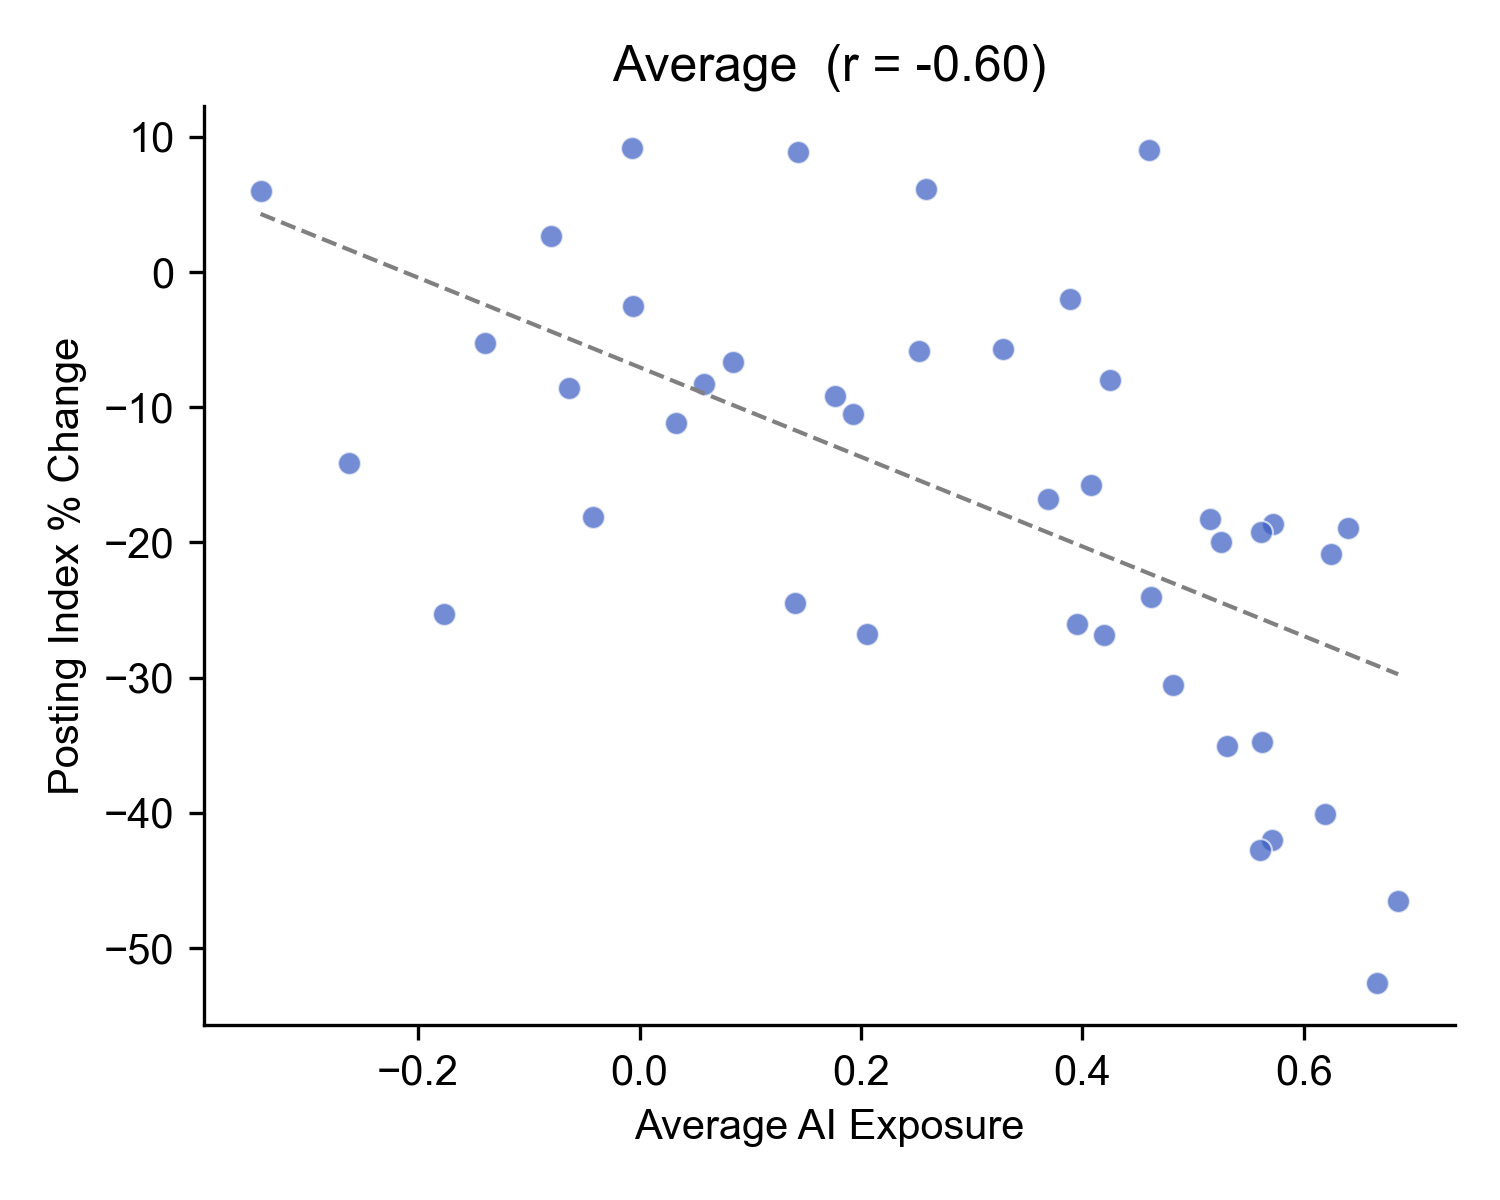
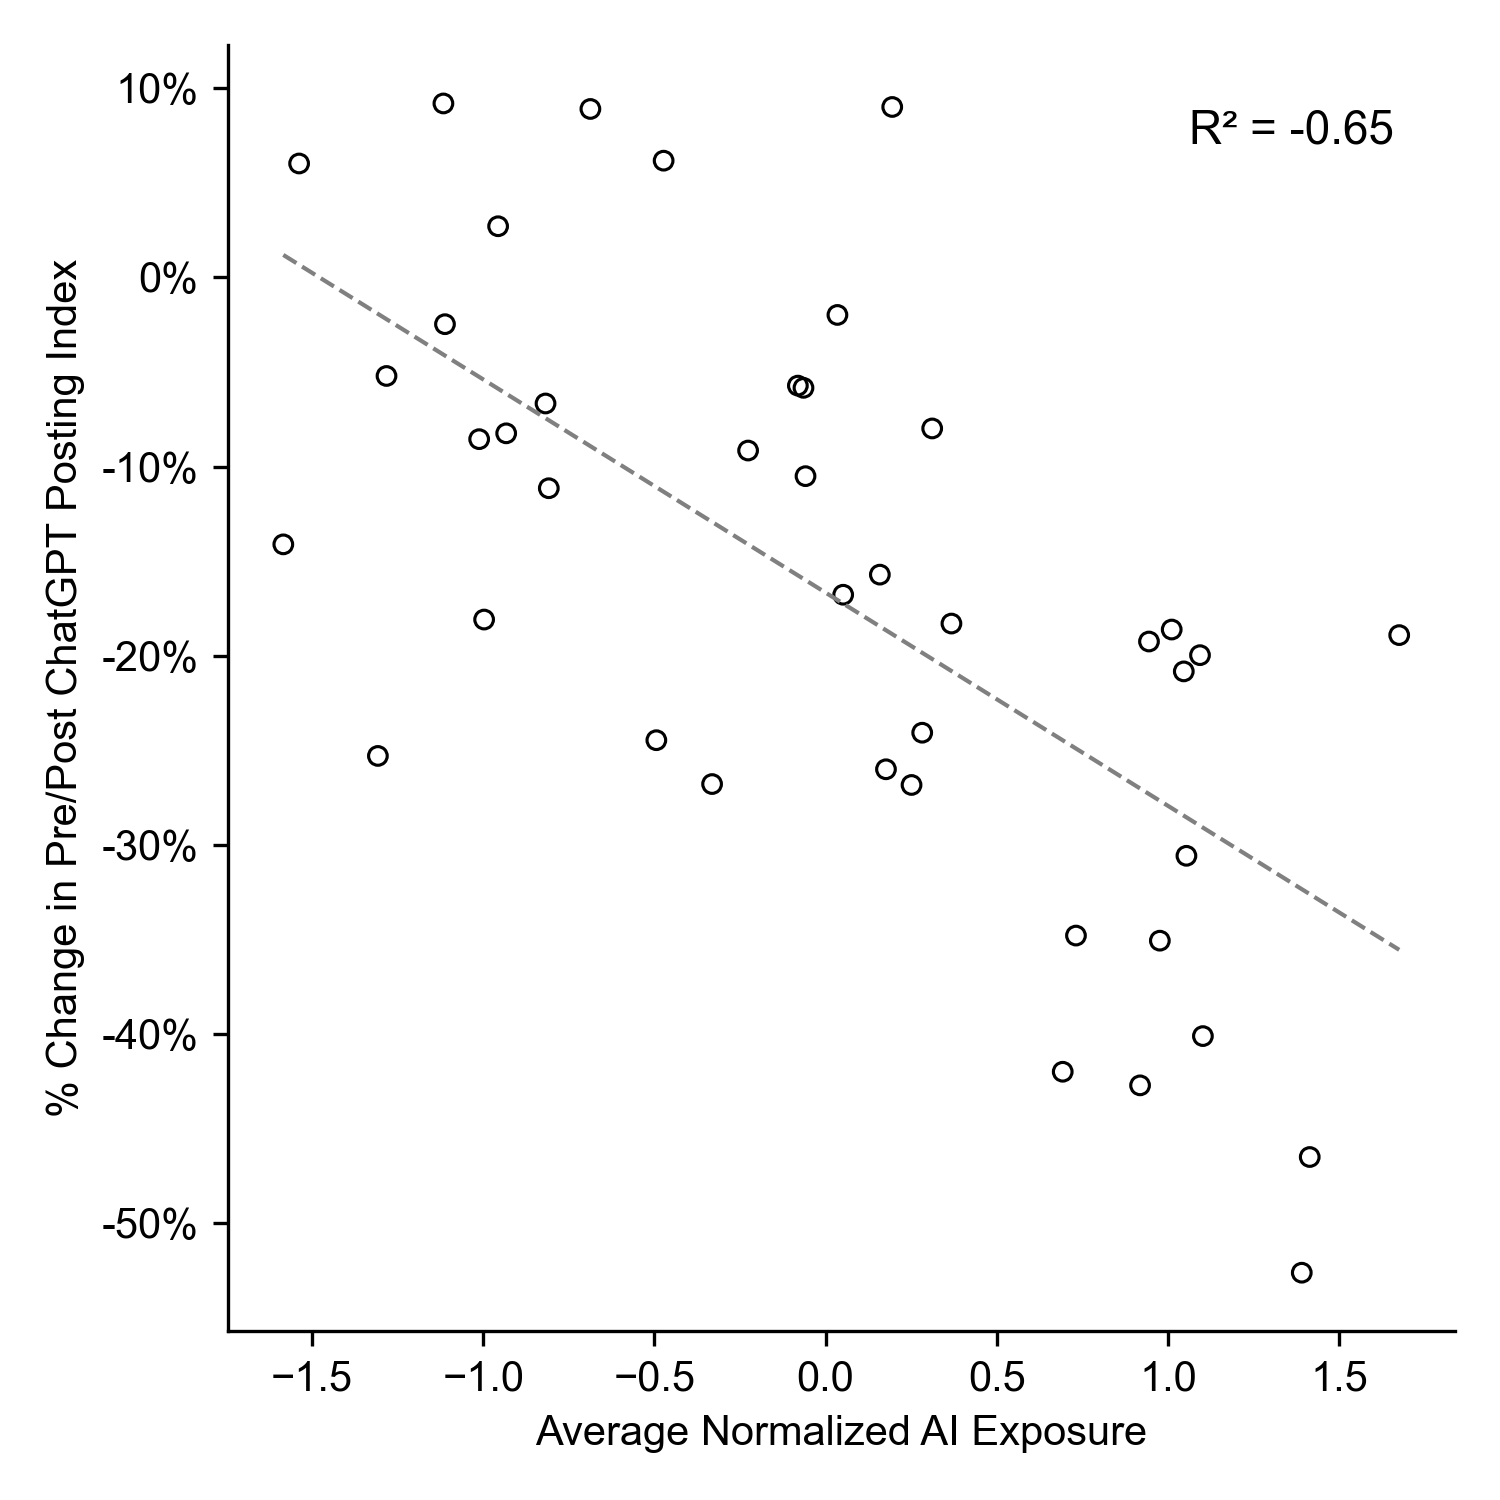
fixed formatting of scatterplots

diff --git a/pipeline/plot.py b/pipeline/plot.py
@@ -10,6 +10,7 @@ from matplotlib import rcParams
 rcParams["font.sans-serif"] = "Arial"
 rcParams["font.family"] = "sans-serif"
 
+
 def PlotTrends(source, target, env):
     """
     Plot a comparison of two time series.
@@ -108,6 +109,7 @@ def PlotTrends(source, target, env):
     plt.savefig(str(target[0]))
     plt.savefig(str(target[1]), dpi=300)
 
+
 def PlotAIExposure(source, target, env):
     """
     Pairwise scatterplots and correlations between AI exposure measures.
@@ -168,6 +170,7 @@ def PlotAIExposure(source, target, env):
     plt.savefig(str(target[0]))
     plt.savefig(str(target[1]), dpi=300)
 
+
 def PlotIndeedPostingsAIExposure(source, target, env):
     """
     Scatterplots of Indeed posting index percent change vs each AI exposure measure.
@@ -193,8 +196,7 @@ def PlotIndeedPostingsAIExposure(source, target, env):
         x = data[measure]
         y = data["pct_change"]
 
-        ax.scatter(x, y, color="#385CC3", alpha=0.7, s=30,
-                   edgecolors="white", linewidths=0.5)
+        ax.scatter(x, y, color="none", s=15, edgecolors="black", linewidths=0.75)
 
         # Fit line
         m, b = np.polyfit(x, y, 1)
@@ -203,10 +205,12 @@ def PlotIndeedPostingsAIExposure(source, target, env):
 
         # Correlation
         r = x.corr(y)
-        ax.set_title(f"{labels[measure]}  (r = {r:.2f})")
-        ax.set_xlabel(labels[measure])
+        ax.text(0.28, 0.1, f"R\u00B2 = {r:.2f}", transform=ax.transAxes,
+            ha="right", va="top", fontsize=11)
+        ax.yaxis.set_major_formatter(plt.FuncFormatter(lambda v, _: f"{v:.0f}%"))
+        ax.set_xlabel(f"AI Exposure ({labels[measure]})")
         if i == 0:
-            ax.set_ylabel("Posting Index % Change")
+            ax.set_ylabel("% Change in Pre/Post ChatGPT Posting Index")
         for spine in ["top", "right"]:
             ax.spines[spine].set_visible(False)
 
@@ -224,15 +228,16 @@ def PlotIndeedPostingsAvgAIExposure(source, target, env):
     data = pd.merge(postings, exposure, on="sectorName")
 
     measures = ["aioe", "anthropic", "tomlinson", "eisfeldt", "eloundou"]
+    for col in measures:
+        data[col] = (data[col] - data[col].mean()) / data[col].std()
     data["average"] = data[measures].mean(axis=1)
 
-    fig, ax = plt.subplots(figsize=(5, 4))
+    fig, ax = plt.subplots(figsize=(5, 5))
 
     x = data["average"]
     y = data["pct_change"]
 
-    ax.scatter(x, y, color="#385CC3", alpha=0.7, s=30,
-               edgecolors="white", linewidths=0.5)
+    ax.scatter(x, y, color="none", s=20, edgecolors="black", linewidths=0.75)
 
     # Fit line
     m, b = np.polyfit(x, y, 1)
@@ -241,9 +246,11 @@ def PlotIndeedPostingsAvgAIExposure(source, target, env):
 
     # Correlation
     r = x.corr(y)
-    ax.set_title(f"Average  (r = {r:.2f})")
-    ax.set_xlabel("Average AI Exposure")
-    ax.set_ylabel("Posting Index % Change")
+    ax.text(0.95, 0.95, f"R\u00B2 = {r:.2f}", transform=ax.transAxes,
+            ha="right", va="top", fontsize=11)
+    ax.yaxis.set_major_formatter(plt.FuncFormatter(lambda v, _: f"{v:.0f}%"))
+    ax.set_xlabel("Average Normalized AI Exposure")
+    ax.set_ylabel("% Change in Pre/Post ChatGPT Posting Index")
     for spine in ["top", "right"]:
         ax.spines[spine].set_visible(False)
 

diff --git a/pipeline/model.py b/pipeline/model.py
@@ -5,7 +5,7 @@ from dateutil.relativedelta import relativedelta
 from .data import DATES, load_data
 
 
-def ModelIndeedPostingsAIExposure(source, target, env):
+def ModelIndeedPostingsAIExposureOLS(source, target, env):
     """
     OLS regression of daily Indeed posting index on post-ChatGPT year indicators
     and a time-varying AI exposure control, pooled across sectors.